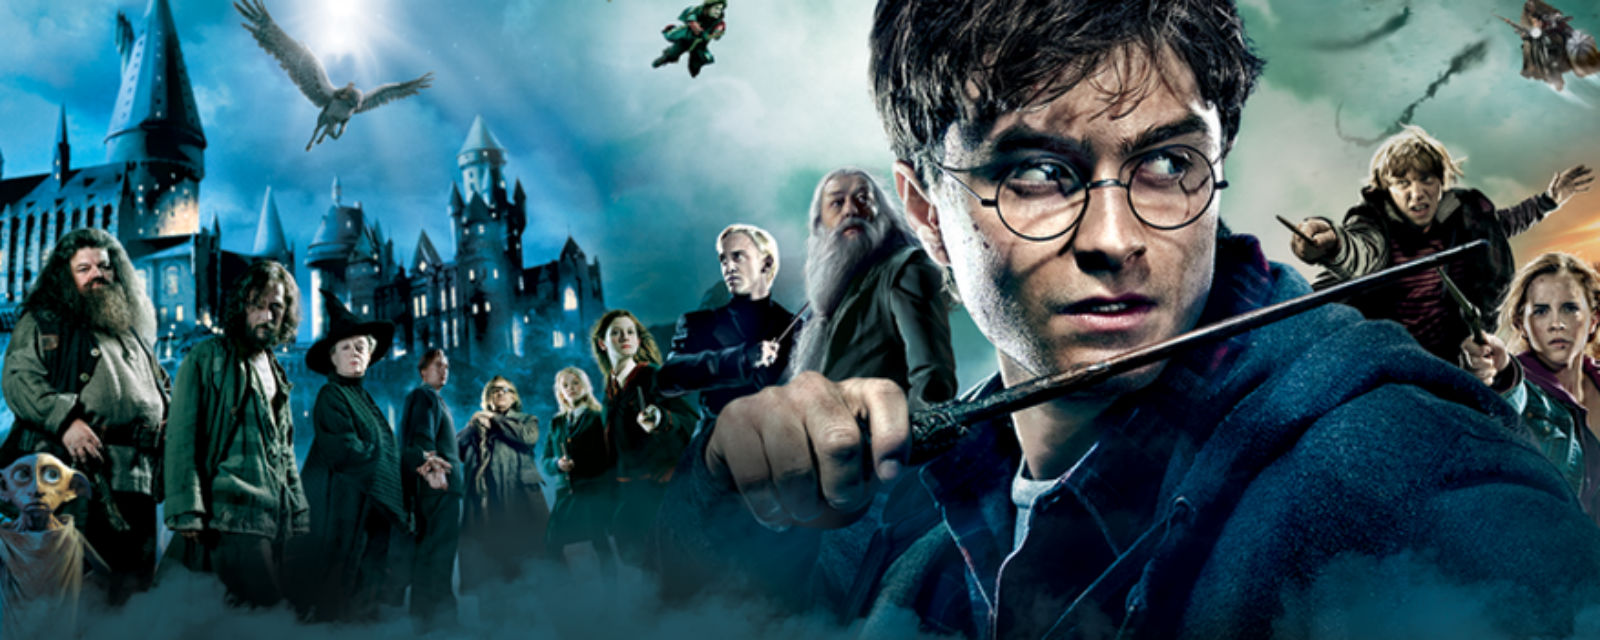
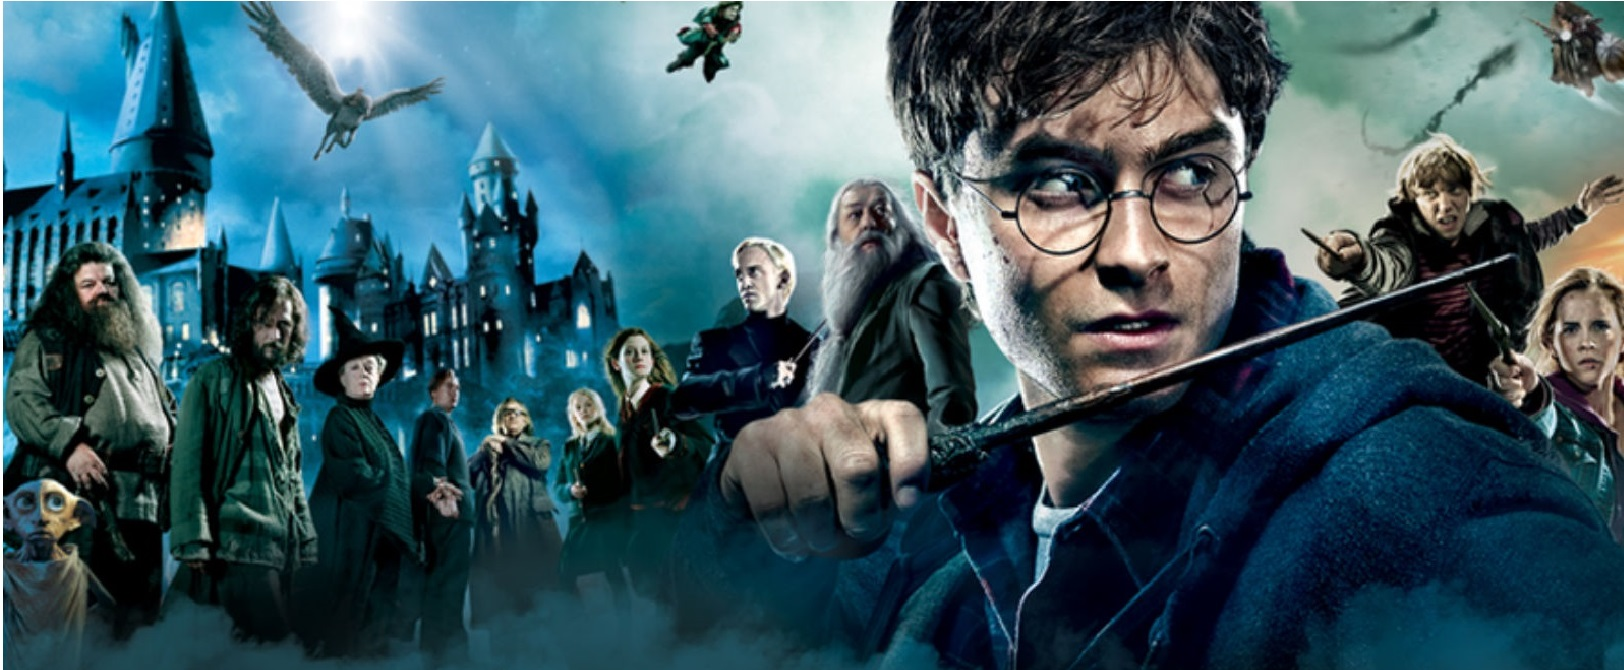
resolve problema do tamanho

diff --git a/html/index.html b/html/index.html
@@ -9,11 +9,13 @@
         <link rel="stylesheet" type="text/css" href="../assets/css/bio.css">
         <meta name="viewport" content="width=device-width, initial-scale=1">
             <link rel="icon" type="imagem/png" href="../assets/img/Chapeu.png" >
-            <link href="../assets/bootstrap/css/mdb.min.css" rel="stylesheet">
+           <link href="../assets/bootstrap/css/mdb.min.css" rel="stylesheet">
               <link rel="stylesheet" type="text/css" href="../assets/css/footer.css">
 
-    <link rel="stylesheet" type="text/css" href="../assets/css/styleL.css">
+       <link rel="stylesheet" type="text/css" href="../assets/css/styleL.css">
+
   </head>
+
   <body class="bg">
 
     <nav class="navbar navbar-2 navbar-expand-lg navbar-dark navbar-edit fonte ">
@@ -71,7 +73,7 @@
     </nav>
 
 
-    <div id="carouselExampleIndicators" class=" carousel slide mt-5 col-lg-10 mx-auto" data-ride="carousel">
+    <div id="carouselExampleIndicators" class="carousel slide mt-5 col-lg-10 mx-auto" data-ride="carousel">
     <ol class="carousel-indicators">
       <li data-target="#carouselExampleIndicators" data-slide-to="0" class="active"></li>
       <li data-target="#carouselExampleIndicators" data-slide-to="1"></li>
@@ -79,27 +81,29 @@
     </ol>
     <div class="carousel-inner">
       <div class="carousel-item active">
-        <img class="carrossel d-block w-100" src="../assets/img/harry potter.jpg" alt="Bonecos Harry Potter">
+        <img class="d-block w-100" src="../assets/img/harry potter.jpg" alt="Bonecos Harry Potter">
         <div class="carousel-caption d-none d-md-block">
    <h5>Harry Potter e as relíquias da morte em Blu Ray</h5>
    <p>Assista ao último filme da saga em Blu Ray!</p>
  </div>
       </div>
       <div class="carousel-item">
-        <img class="carrossel d-block w-100" src="../assets/img/Harry_Pottah.jpg" alt="Bonecos diversos Harry Potter">
+        <img class="d-block w-100" src="../assets/img/Harry_Pottah.jpg"  alt="Bonecos diversos Harry Potter">
           <div class="carousel-caption d-none d-md-block">
         <h5>Cansado dos livros? Agora você também pode ver os filmes!</h5>
         <p>Filmes do Harry Potter estão na promoção!!</p>
       </div>
       </div>
       <div class="carousel-item">
-        <img class="carrossel d-block w-100" src="../assets/img/bonecosPop.png" alt="Bonecos amigos Harry Potter">
+        <img class="d-block w-100" src="../assets/img/bonecosPop.jpg" alt="Bonecos amigos Harry Potter">
           <div class="carousel-caption d-none d-md-block">
         <h5>Os bonecos funko estão bombando!!</h5>
         <p>Compre já o boneco funko do seu personagem favorito!</p>
       </div>
       </div>
     </div>
+
+  <div>
     <a class="carousel-control-prev" href="#carouselExampleIndicators" role="button" data-slide="prev">
       <span class="carousel-control-prev-icon" aria-hidden="true"></span>
       <span class="sr-only">Previous</span>
@@ -108,11 +112,17 @@
       <span class="carousel-control-next-icon" aria-hidden="true"></span>
       <span class="sr-only">Next</span>
     </a>
+
   </div>
+
+
+
+  </div>
+
+
 
 <div class="mt-3 col-lg-12">
   <div class="row linha-card">
-
 
               <div class="col-lg-3 col-md-3 col-sm-3 mx-auto text-center card-2">
                 <div class="view overlay zoom">

diff --git a/html/AdminProduto.html b/html/AdminProduto.html
@@ -51,7 +51,7 @@
       <div class = "container">
           <div class ="row">
 
-            <div class="col-lg-5 col-md-5 mt-3 mb-3 text-center card">
+            <div class="divAdmProd col-lg-5 col-md-5 mt-3 mb-3 text-center card">
              <img class="card-img-top" src="../assets/img/produtoHP2.png" alt="Produto 1">
              <button class="col-lg-3 mt-3 mx-auto  mb-2 btn btn-primary">Trocar foto</button>
             </div>

diff --git a/assets/css/bio.css b/assets/css/bio.css
@@ -18,24 +18,35 @@
   height: 500px;
 }
 
+ .carrossel{
+
+   height:500px
+
+ }
+
+
+
 .superDiv{
 
   align: center;
 
 }
 
+.form-admin-produto{
+  width:500px;
+  margin: auto;
+}
 
-  h1{
+  .h1AdmProd{
       font-size: 60px;
       text-align: center;
   }
 
-  h2{
+  .h2AdmProd{
         font-size: 20px;
-
     }
 
-    div{
+    .divAdmProd{
       border: 1px;
       text-align: center;
       align-self: center;
